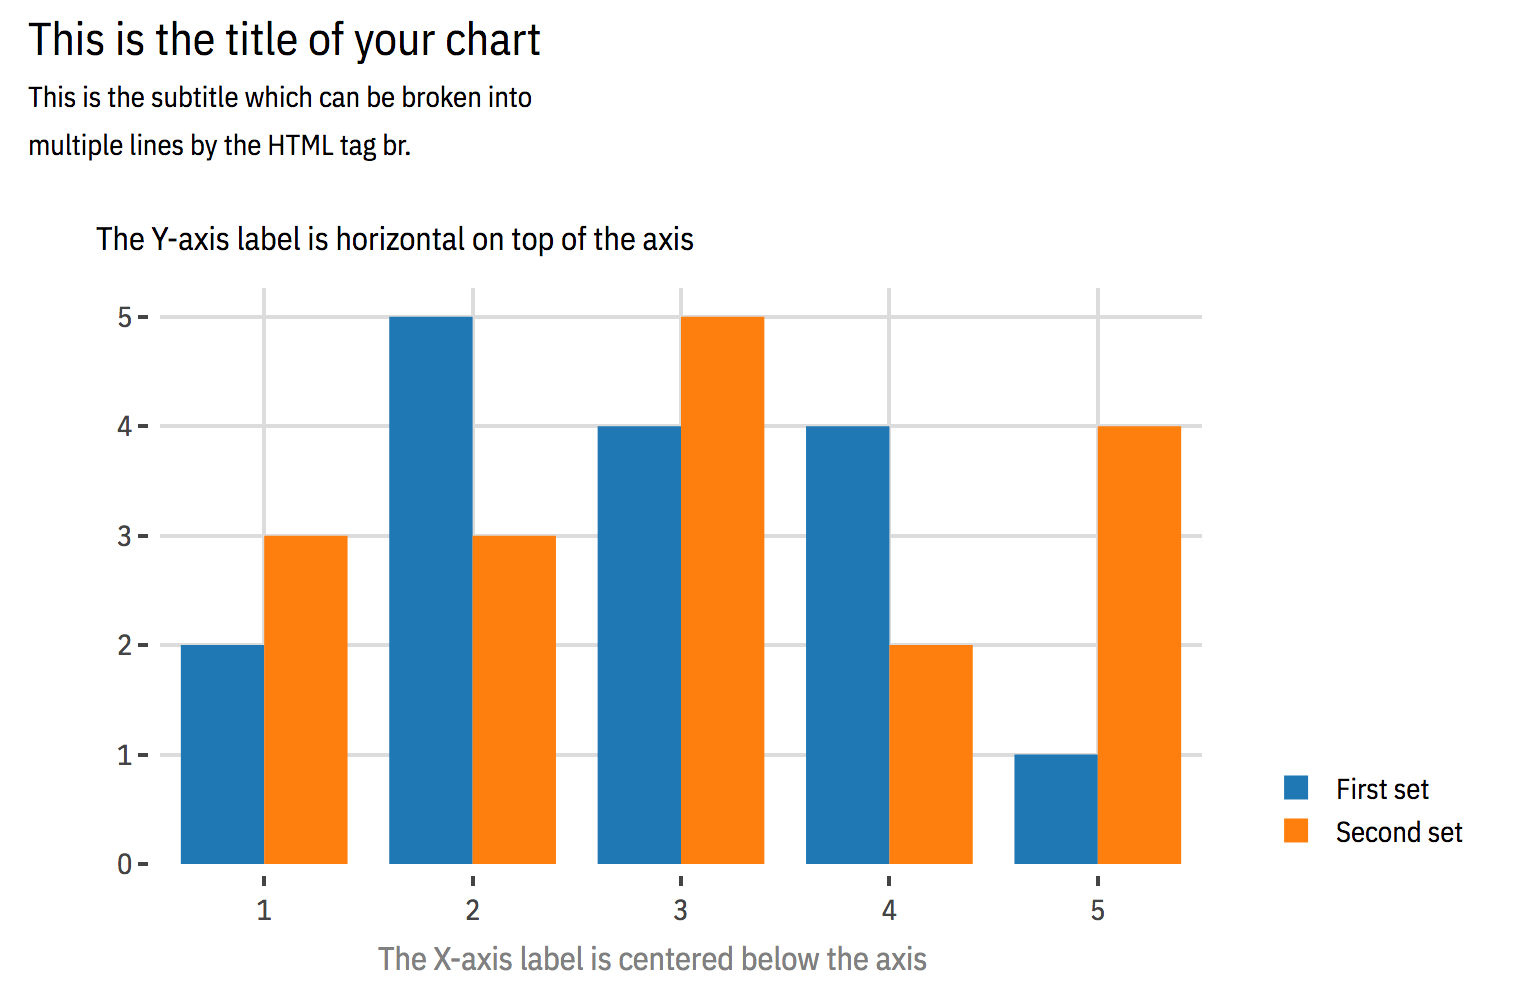
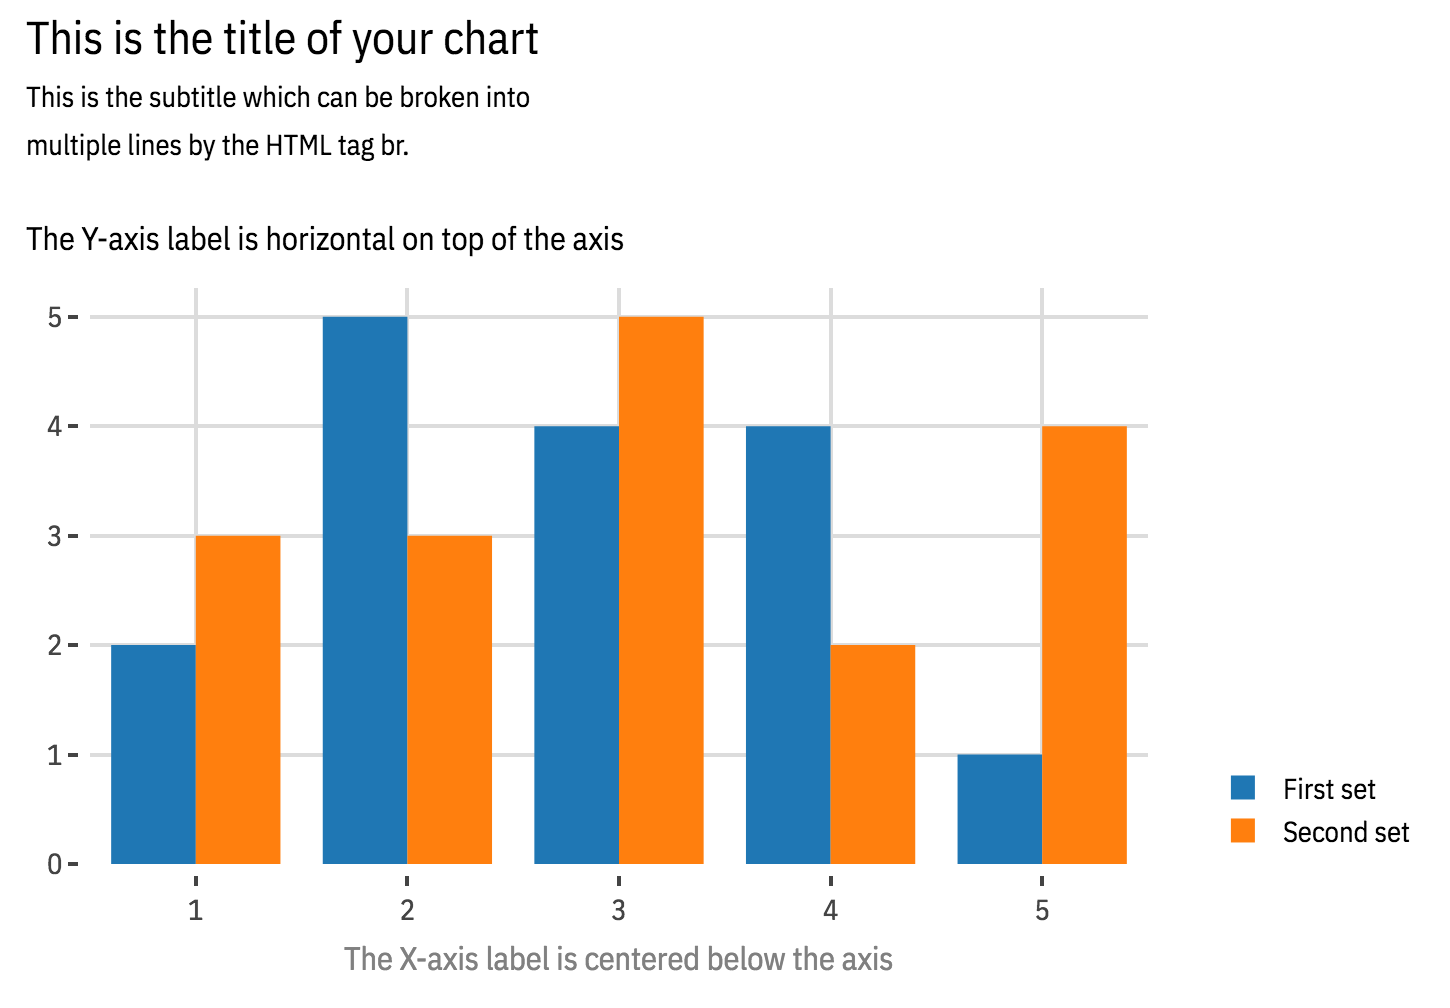
Move the Y-label to the left and reduce the default left margin

diff --git a/plotly_layout.py b/plotly_layout.py
@@ -28,7 +28,7 @@ def layout_by_line_height(
     light_text_color=LIGHT_TEXT_COLOR,
     n_canva=12,
     canva_width=600,
-    left_margin=80,
+    left_margin=40,
     right_margin=80,
     title="title",
     subtitle="subtitle",
@@ -131,7 +131,6 @@ def layout_by_line_height(
     width = canva_width + margin["l"] + margin["r"]
 
     titles_left = -left_margin / canva_width
-    y_label_left = -left_position_min / canva_width
 
     labels = []
     if subtitle_labels:
@@ -149,7 +148,7 @@ def layout_by_line_height(
         ),
         dict(
             **parameters,
-            x=y_label_left,
+            x=titles_left,
             xanchor="left",
             y=1 + y_label_bottom / canva_height,
             font=dict(size=font_size, color=dark_text_color),
